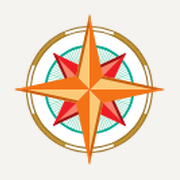
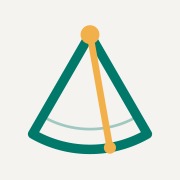
Símbolo do sextante no lugar da rosa dos ventos e logotipo nas boas-vindas e na Ajuda
Claude-Session: https://claude.ai/code/session_01PS7yvW2unLSG6eniHjnn7W

diff --git a/js/marca.js b/js/marca.js
@@ -1,0 +1,43 @@
+/**
+ * Marca do sistema (27/10/2026): o símbolo do sextante e o logotipo (símbolo + nome), desenhados em SVG.
+ *
+ * O símbolo é um setor de 60° (um sexto do círculo, como o instrumento), com o braço indicador apontando um
+ * ponto do arco. As cores vêm das variáveis do tema (classes `marca-*`, em `css/estilo.css`): corpo e nome em
+ * `--accent` (verde-azulado), braço e pontos em `--warn` (dourado). Assim a marca acompanha os temas claro e
+ * escuro. Os arquivos estáticos (`logo.png`, ícone da aba, e `icones/`, aplicativo instalável) são cópias em
+ * imagem das cores do tema claro (documentação técnica, seção 3.1).
+ *
+ * O nome do logotipo é desenhado, e não escrito com uma fonte, para ficar igual em qualquer aparelho. Se o
+ * nome do sistema mudar (`js/identidade.js`), o desenho do nome precisa ser refeito.
+ */
+import { NOME } from "./identidade.js";
+
+const DESENHO_DO_SIMBOLO = `
+  <path class="marca-corpo" d="M128 40L43 187.2A170 170 0 0 0 213 187.2Z" fill="none" stroke-width="14" stroke-linecap="round" stroke-linejoin="round"/>
+  <path class="marca-escala" d="M58 161.2A140 140 0 0 0 198 161.2" fill="none" stroke-width="4" stroke-linecap="round"/>
+  <path class="marca-braco" d="M128 40L157.5 207.4" fill="none" stroke-width="10" stroke-linecap="round"/>
+  <circle class="marca-ponto" cx="128" cy="40" r="14"/>
+  <circle class="marca-ponto" cx="157.5" cy="207.4" r="9"/>`;
+
+/** Símbolo, num quadrado. `tamanho` em px; decorativo (sem texto para o leitor de tela). */
+export function simboloSvg(tamanho = 26) {
+  return `<svg class="marca marca-simbolo" viewBox="32 26 192 192" width="${tamanho}" height="${tamanho}" aria-hidden="true" focusable="false">${DESENHO_DO_SIMBOLO}</svg>`;
+}
+
+/** Logotipo: símbolo à esquerda e o nome em caixa alta, com o A sem travessão (o mesmo ângulo de 60° do símbolo). */
+export function logotipoSvg(altura = 32) {
+  const largura = Math.round((altura * 839.4) / 158);
+  return `<svg class="marca marca-logotipo" viewBox="6 46 839.4 158" width="${largura}" height="${altura}" role="img" aria-label="${NOME}" focusable="false">
+  <g transform="translate(4.8 40.3) scale(0.7)">${DESENHO_DO_SIMBOLO}</g>
+  <g transform="translate(-61 -5)">
+    <path class="marca-nome-traco" d="M317.25 106.75C311.75 97.75 301.24 95.25 293 95.25C277.55 95.25 268.8 101.25 268.8 112.25C268.8 125.25 279.61 126.8 293 130C308.45 133.6 318.75 141 318.75 147.25C318.75 159.75 308.45 164.75 293 164.75C282.7 164.75 270.34 162.25 266.25 152.25" fill="none" stroke-width="10.5"/>
+    <path class="marca-nome" d="M346 90H398V100.5H356.5V124.75H395V135.25H356.5V159.5H398V170H346Z
+      M412.81 90H425.59L481.19 170H468.41Z M468.41 90H481.19L425.59 170H412.81Z
+      M489 90H557V100.5H528.25V170H517.75V100.5H489Z
+      M558 170L604.19 90L650.38 170H638.25L604.19 111L570.12 170Z
+      M670.38 170V90H681.88L727.88 156V90H738.38V170H726.88L680.88 104V170Z
+      M745.38 90H813.38V100.5H784.63V170H774.13V100.5H745.38Z
+      M824.38 90H876.38V100.5H834.88V124.75H873.38V135.25H834.88V159.5H876.38V170H824.38Z"/>
+  </g>
+</svg>`;
+}

diff --git a/css/estilo.css b/css/estilo.css
@@ -828,11 +828,15 @@ body.arrastando-coluna-quadro, body.arrastando-coluna-quadro * { cursor: grabbin
 .nova-acao .botoes { align-items: center; }
 
 /* identidade do sistema: só nas boas-vindas e na Ajuda, fora da tela de trabalho (passo 1.14c) */
-.identidade { display: flex; align-items: center; gap: 10px; margin-bottom: 10px; }
-.identidade img { flex: none; }
-.identidade span { display: flex; flex-direction: column; line-height: 1.2; }
-.identidade b { font-family: var(--f-titulo); font-size: 1.1rem; }
+.identidade { display: flex; flex-direction: column; align-items: flex-start; gap: 4px; margin-bottom: 10px; }
+.identidade .marca-logotipo { display: block; max-width: 100%; height: auto; }
 .identidade small { color: var(--muted); }
+/* marca do sistema (símbolo e logotipo, js/marca.js): cores do tema, para valer no claro e no escuro */
+.marca-corpo, .marca-escala, .marca-nome-traco { stroke: var(--accent); }
+.marca-escala { opacity: .35; }
+.marca-nome { fill: var(--accent); }
+.marca-braco { stroke: var(--warn); }
+.marca-ponto { fill: var(--warn); }
 
 /* ---------- exclusão e lixeira (passo 1.15) ---------- */
 .zona-exclusao { margin-top: 18px; padding-top: 12px; border-top: 1px solid var(--line); display: flex; justify-content: flex-end; }
@@ -1501,7 +1505,8 @@ body[data-vista-atual="rede"] .conteudo { padding-bottom: 0; }
 @media (min-width: 900px) { body.modulo-superior { padding-left: max(16px, env(safe-area-inset-left, 0px)); } body.modulo-superior .topo { margin-left: calc(-1 * max(16px, env(safe-area-inset-left, 0px))); padding-left: max(16px, env(safe-area-inset-left, 0px)); } }
 body.modulo-superior .topo-linha { display: flex; justify-content: space-between; padding-left: 0; }
 .superior-marca { display: inline-flex; align-items: center; gap: 8px; color: var(--ink); text-decoration: none; min-width: 0; }
-.superior-marca span { display: flex; flex-direction: column; line-height: 1.1; }
+.superior-simbolo { display: inline-flex; flex: none; width: 26px; height: 26px; }
+.superior-marca span:not(.superior-simbolo) { display: flex; flex-direction: column; line-height: 1.1; }
 .superior-marca b { font-family: var(--f-titulo); font-size: 1.05rem; }
 .superior-marca small { font-size: .72rem; color: var(--muted); font-weight: 400; }
 .superior-conta { display: flex; align-items: center; gap: 4px; flex-wrap: nowrap; min-width: 0; }

diff --git a/testes/marca.test.js b/testes/marca.test.js
@@ -1,0 +1,30 @@
+/** Marca do sistema: símbolo e logotipo em SVG, com as cores do tema (js/marca.js; documentação técnica, seção 3.1). */
+import { describe, it } from "node:test";
+import assert from "node:assert/strict";
+import { readFileSync } from "node:fs";
+import { simboloSvg, logotipoSvg } from "../js/marca.js";
+import { NOME } from "../js/identidade.js";
+
+describe("marca do sistema", () => {
+  it("o símbolo é decorativo e tem o tamanho pedido", () => {
+    const svg = simboloSvg(26);
+    assert.match(svg, /aria-hidden="true"/);
+    assert.match(svg, /width="26" height="26"/);
+  });
+
+  it("o logotipo diz o nome ao leitor de tela e guarda a proporção", () => {
+    const svg = logotipoSvg(32);
+    assert.match(svg, new RegExp(`aria-label="${NOME}"`));
+    assert.match(svg, /width="170" height="32"/);
+  });
+
+  it("as cores vêm das variáveis do tema, sem cor fixa no desenho", () => {
+    const svgs = simboloSvg() + logotipoSvg();
+    assert.doesNotMatch(svgs, /#[0-9a-f]{3,6}\b/i);
+    const css = readFileSync(new URL("../css/estilo.css", import.meta.url), "utf8");
+    for (const classe of ["marca-corpo", "marca-escala", "marca-braco", "marca-ponto", "marca-nome", "marca-nome-traco"]) {
+      assert.ok(svgs.includes(`class="${classe}"`), `desenho sem ${classe}`);
+      assert.match(css, new RegExp(`\\.${classe}\\b[^{]*\\{[^}]*var\\(--(accent|warn)\\)|\\.${classe}\\b[^{]*\\{[^}]*opacity`), `estilo sem ${classe}`);
+    }
+  });
+});

diff --git a/js/telas/ajuda.js b/js/telas/ajuda.js
@@ -6,6 +6,7 @@ import { GLOSSARIO } from "../glossario.js";
 import { ICONES } from "../icones.js";
 import { abrirPainel, fecharPainel } from "./painel.js";
 import { NOME, INSTITUICAO } from "../identidade.js";
+import { logotipoSvg } from "../marca.js";
 import { mostrarAtalhos } from "./atalhos.js";
 
 const CLASSE_DO_ICONE = { concluida: "icone-concluida", liberada: "icone-liberada", naoLiberada: "icone-nao-liberada", atrasada: "icone-atrasada" };
@@ -13,7 +14,7 @@ const CLASSE_DO_ICONE = { concluida: "icone-concluida", liberada: "icone-liberad
 /** @param {{foco?: string, aoVerExemplo: () => void}} opcoes */
 export function mostrarAjuda({ foco, aoVerExemplo }) {
   const corpo = abrirPainel("Ajuda", `
-    <div class="identidade"><img src="logo.png" alt="" width="32" height="32"><span><b>${NOME}</b><small>${INSTITUICAO}</small></span></div>
+    <div class="identidade">${logotipoSvg(32)}<small>${INSTITUICAO}</small></div>
     <section>
       <p>Quer ver como funciona? Abra um espaço de exemplo, com dados fictícios.</p>
       <button class="botao" type="button" data-exemplo>Ver um exemplo</button>

diff --git a/js/telas/abertura.js b/js/telas/abertura.js
@@ -4,6 +4,7 @@
  * uma cópia de segurança (passo 1.19b).
  */
 import { NOME, INSTITUICAO } from "../identidade.js";
+import { logotipoSvg } from "../marca.js";
 import { ICONES } from "../icones.js";
 import { tipoHtml, ligarTipo, lerTipo } from "./tipo-espaco.js";
 import { TIPOS, TIPOS_DE_TAREFAS } from "../tipos.js";
@@ -30,7 +31,7 @@ export function mostrarBoasVindas(alvo, { aoCriar, aoVerExemplo, comFormulario =
   const soFormulario = comFormulario && podeCriar;
   alvo.innerHTML = `
     <section class="cartao boas-vindas"${soFormulario ? " hidden" : ""}>
-      <div class="identidade"><img src="logo.png" alt="" width="40" height="40"><span><b>${NOME}</b><small>${INSTITUICAO}</small></span></div>
+      <div class="identidade">${logotipoSvg(40)}<small>${INSTITUICAO}</small></div>
       <h1>Boas-vindas ao ${NOME}</h1>
       <p>Planeje e acompanhe o trabalho num espaço de planejamento. Conforme o espaço, o sistema calcula as datas,
       mostra o que não pode atrasar, estima a chance de cumprir o prazo e acompanha o andamento. Há quatro tipos:</p>

diff --git a/js/superior/app.js b/js/superior/app.js
@@ -8,6 +8,7 @@ import { conectarFirebase } from "../banco/firebase.js";
 import { criarBancoLocal } from "../banco/local.js";
 import { criarStore, hojeLocal } from "../dados.js";
 import { NOME } from "../identidade.js";
+import { simboloSvg } from "../marca.js";
 import { esc } from "../formato.js";
 import { abrirEntrar, abrirTrocarSenha } from "../telas/acesso.js";
 import { avisar } from "../telas/painel.js";
@@ -21,6 +22,7 @@ registrarAplicativo("../sw.js"); // o mesmo aplicativo instalável do sistema de
 /** Nome provisório do módulo, num lugar só. */
 export const NOME_DO_MODULO = "Superior";
 document.title = NOME_DO_MODULO;
+document.querySelector("[data-simbolo]")?.insertAdjacentHTML("afterbegin", simboloSvg(26)); // símbolo do sistema, nas cores do tema
 
 const hoje = hojeLocal();
 const principal = document.querySelector("#principal");

diff --git a/superior/index.html b/superior/index.html
@@ -21,7 +21,7 @@
 <body class="modulo-superior">
 <header class="topo">
   <div class="topo-linha superior-topo">
-    <a class="superior-marca" href="./"><img src="../logo.png" alt="" width="26" height="26"><span><b data-nome-modulo>Superior</b><small>Gestão da estratégia</small></span></a>
+    <a class="superior-marca" href="./"><span class="superior-simbolo" data-simbolo></span><span><b data-nome-modulo>Superior</b><small>Gestão da estratégia</small></span></a>
     <nav class="superior-conta" data-conta></nav>
   </div>
   <p class="aviso-conexao" data-sem-conexao role="status" hidden><b>Sem conexão.</b> As alterações não serão gravadas até a internet voltar.</p>

diff --git a/docs/documentacao-tecnica.md b/docs/documentacao-tecnica.md
@@ -1,6 +1,6 @@
 # Documentação técnica — Sistema de Gerenciamento de Planos de Ação (Sextante)
 
-**Última atualização deste documento:** 27/10/2026 (versão 201 da página)
+**Última atualização deste documento:** 27/10/2026 (versão 202 da página)
 
 Sistema da DGDI da UFCI-MG, em https://dgdi-ufci-mg.github.io/sistema-planos-de-acao/. **Protótipo** (seção 1.2): esta documentação é o modelo conceitual para o sistema definitivo e precisa permitir reconstruir o comportamento sem ler o código.
 
@@ -74,7 +74,8 @@ Módulos JavaScript carregados direto pelo navegador (`<script type="module">`),
 | `css/estilo.css` | Aparência e variáveis de cor, em três blocos de tema |
 | `config.js` | Configuração do Firebase (projeto `sextante-v2`; pública por desenho; `null` = só memória) |
 | `firestore.rules` | Regras do banco, publicadas à mão no console do Firebase |
-| `logo.png` | Logotipo (rosa dos ventos) |
+| `js/marca.js` | Marca do sistema em SVG (27/10/2026): o **símbolo** (setor de 60°, um sexto do círculo, como o sextante, com o braço indicador apontando um ponto do arco) e o **logotipo** (símbolo à esquerda e o nome em caixa alta, desenhado em traço, com o A sem travessão no mesmo ângulo de 60° do símbolo; o símbolo tem cerca de 1,6 vez a altura das letras). As cores vêm do tema, pelas classes `marca-*` de `css/estilo.css`: corpo, escala e nome em `--accent` (verde-azulado), braço e pontos em `--warn` (dourado); a escala interna com 35% de opacidade. O nome é desenhado, e não escrito com fonte, para ficar igual em todo aparelho: se `NOME` mudar em `js/identidade.js`, o desenho precisa ser refeito. Usos: logotipo nas boas-vindas (40 px de altura) e na Ajuda (32 px), com a sigla da instituição pequena embaixo; símbolo no cabeçalho do módulo Superior (26 px) |
+| `logo.png` | Símbolo em imagem, 112 px, fundo transparente, nas cores do tema claro (`#00796B` e `#F2B04A`): ícone da aba do navegador. Até 27/10/2026, era a rosa dos ventos |
 | `manifest.webmanifest`, `icones/`, `sw.js` | Aplicativo instalável pelo navegador: manifesto (nome, cores, ícones), ícones de 180, 192 e 512 px (um deles com margem para o recorte do Android) e o *service worker*, sem cache (seção 8, "Instalar como aplicativo") |
 | `v2/index.html` | Só leva quem guardou o endereço antigo `/v2/` para a raiz |
 | `superior/index.html` | Página do módulo Superior, a gestão da estratégia (passo 2.5; seção 8, "Módulo Superior"), no endereço `/superior/` |
@@ -1191,7 +1192,7 @@ Os painéis abrem sob o menu, com a transição padrão. Os menus do centro most
 **Instalar como aplicativo** (seção 13.2, primeiro passo; feito em 24/10/2026, a pedido do responsável):
 - **O que é:** o site fica na tela inicial do celular, ou como aplicativo no computador, aberto sem a barra do navegador, sem loja e sem custo (*termo técnico: aplicativo instalável pelo navegador, PWA*). Vale para o sistema de planos e para o módulo Superior, que fica dentro dele.
 - **Barra lateral:** "Instalar como aplicativo", depois de "Ajuda e manual"; some quando o sistema já está aberto como aplicativo. No Android e no computador (Chrome e Edge), abre o pedido de instalação do próprio navegador, quando ele oferece; senão, e sempre no iPhone e no iPad, abre um painel com os passos para cada aparelho.
-- **Arquivos:** `manifest.webmanifest` (nome, cores claras do fundo, tela cheia, início na raiz), `icones/` (feitos a partir do `logo.png`, de 112 px; um logotipo em resolução maior deixaria os ícones mais nítidos) e, no `index.html` e no `superior/index.html`, o manifesto, o ícone do iPhone, a cor da barra do sistema (clara ou escura, conforme o tema do aparelho) e o nome na tela inicial.
+- **Arquivos:** `manifest.webmanifest` (nome, cores claras do fundo, tela cheia, início na raiz), `icones/` (desde 27/10/2026, gerados direto do desenho do símbolo, nas cores do tema claro, sobre o fundo `#F5F3EF`: o símbolo ocupa 72% do ícone do iPhone, 78% dos ícones comuns e 56% do ícone com margem para o recorte do Android) e, no `index.html` e no `superior/index.html`, o manifesto, o ícone do iPhone, a cor da barra do sistema (clara ou escura, conforme o tema do aparelho) e o nome na tela inicial.
 - **Sem cache, de propósito** (escolha técnica): o *service worker* (`sw.js`) não guarda cópia das páginas, para cada publicação chegar ao aplicativo instalado como chega ao navegador, sem versões velhas presas no celular. O sistema precisa de internet de qualquer forma (Firebase); sem conexão, a abertura mostra uma página simples, "Sem conexão com a internet", com "Tentar de novo", no lugar da página de erro do navegador.
 - **O nome** está também nos arquivos estáticos (manifesto e páginas), porque o celular os lê sem rodar o sistema; um teste (`testes/aplicativo.test.js`) confere que é o mesmo de `js/identidade.js`.
 - **Acesso:** continua o mesmo do site. A restrição da leitura a quem tem login (passo 2 da ideia, seção 13.2) não foi feita; depende de decisão do responsável.
@@ -1367,6 +1368,7 @@ Mudanças pedidas pelo responsável a partir da avaliação de usabilidade da in
 Cada decisão de detalhe está registrada, com a data e o motivo, na seção do assunto. As de arquitetura e de método, que orientam o sistema inteiro:
 
 - **Vários arquivos, sem compilação.** Vários arquivos dão separação de responsabilidades, testes automáticos dos cálculos e leitura mais fácil por pessoas e IAs; o custo, um servidor simples para testar localmente, é pequeno. Sem compilação, qualquer pessoa edita e vê o resultado, há menos ferramentas a manter numa instituição em que as equipes mudam e menos riscos de segurança. A checagem de tipos vem dos comentários JSDoc.
+- **Símbolo do sextante no lugar da rosa dos ventos** (27/10/2026, decisão do responsável): o símbolo acompanha o nome provisório; usa as cores do sistema (verde-azulado e dourado), que vieram da rosa dos ventos e continuam as mesmas; logotipo só nas boas-vindas e na Ajuda, e o símbolo sozinho na aba do navegador, no ícone do aplicativo e no módulo Superior.
 - **Protótipo, e não sistema definitivo** (23/10/2026; seção 1.2): a equipe de TI precisa conhecer e controlar o código que mantém; o protótipo vale como modelo conceitual.
 - **Número fixo e código opcional** (seção 4.2): o número liga as dependências e nunca muda; o código mnemônico é opcional e pode mudar.
 - **Uma só distribuição, a beta-PERT** (seção 5.2), com semente e número de simulações visíveis e imutáveis (seção 5.7).
@@ -2084,3 +2086,4 @@ As linhas até a 120 são da documentação da versão 1, em que a versão 2 era
 | 199 | Cronograma: zoom em oito níveis, com botões − e + e Ctrl + rolagem do mouse, mantendo a data sob o ponteiro (pedido do responsável; seção 8.4) |
 | 200 | Rede: círculos de início (verde) e de término (vermelho) com as datas, e cercas (faixa por fase e tracejado entre etapas) no lugar dos marcos (pedido do responsável; seção 8.4) |
 | 201 | Planilha: classificar e filtrar em cada coluna, como no Excel, e lista de várias escolhas em Responsáveis e Depende de, como no Google Planilhas (pedido do responsável; seções 8.0 e 8.3) |
+| 202 | Símbolo do sextante no lugar da rosa dos ventos (aba do navegador, ícones do aplicativo, módulo Superior) e logotipo nas boas-vindas e na Ajuda, nas cores do tema (pedido do responsável; seção 3.1 e decisões) |

diff --git a/AGENTS.md b/AGENTS.md
@@ -55,7 +55,7 @@ Além disso, ele tem estes atributos:
 - **Celular.** Toda tela precisa funcionar em cerca de 400 px de largura.
 - **Movimento com sentido.** Nada aparece ou some de repente: painéis, formulários, seções e itens entram e saem com a transição padrão (`--mov`, `--mov-curva` e `js/telas/movimento.js`), respeitando "Reduzir movimento". Detalhes na seção 2 da documentação técnica.
 - **Temas claro e escuro.** Use sempre as variáveis CSS de `:root`, em `css/estilo.css`. Elas existem em **três** blocos: claro, `prefers-color-scheme: dark` e `[data-theme="dark"]`, e qualquer cor nova vai nos três. Não use cores fixas no código. A exceção existente são os `classDef` da exportação Mermaid (`js/exportar.js`); ao mexer na paleta, atualize-os também.
-- **Paleta derivada do logotipo** (`logo.png`, rosa dos ventos):
+- **Paleta do sistema**, vinda do logotipo antigo (a rosa dos ventos) e usada também no símbolo do sextante (`js/marca.js`, desde 27/10/2026):
   - verde-azulado `#00796B`: destaque e ações com folga;
   - vermelho `#E3262D`: sem folga, caminho crítico;
   - dourado `#F2B04A`: quase sem folga;
